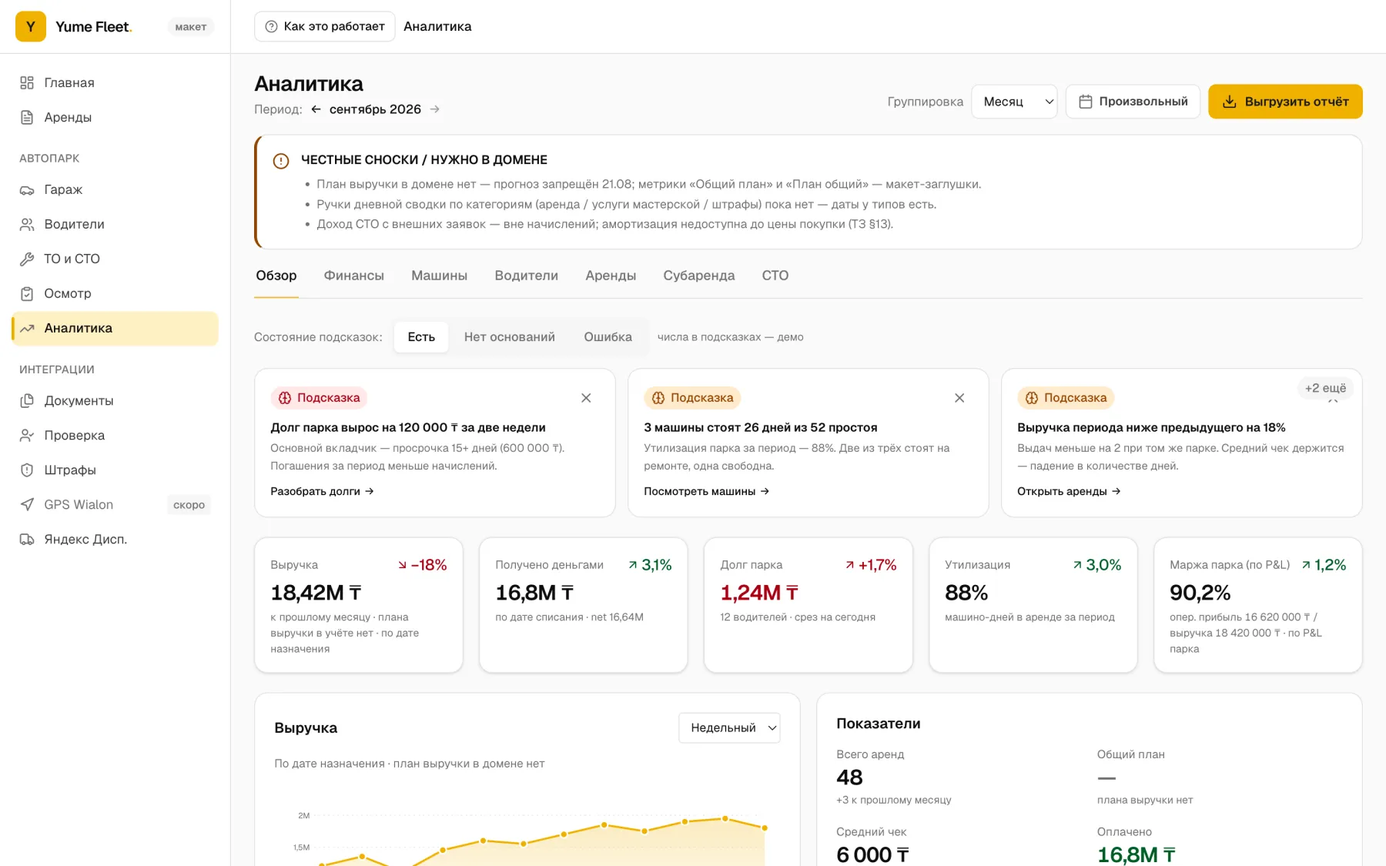
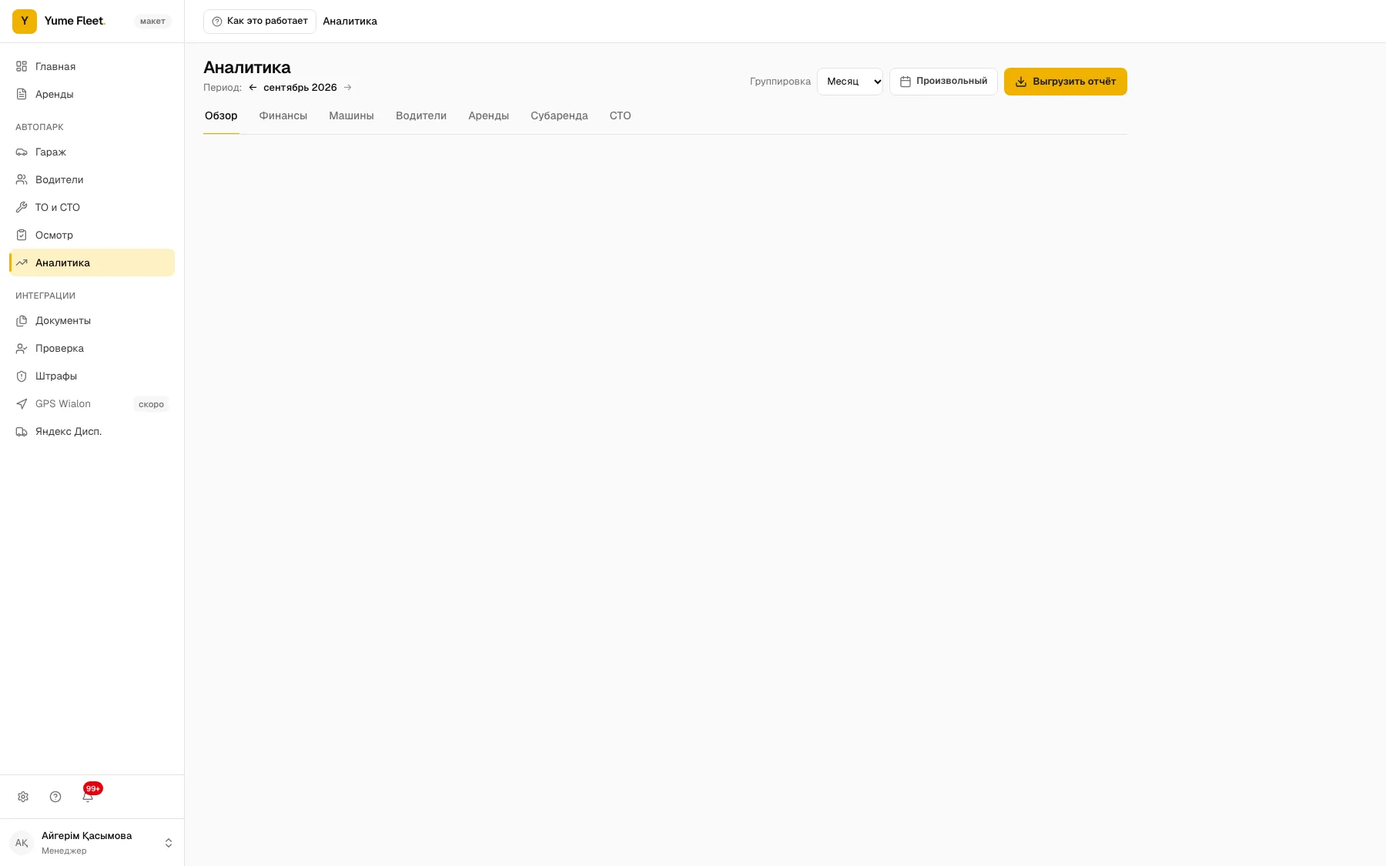
Правки после ревью: новый заголовок, метрики, шаги, ИИ-ассистент в интеграциях, скриншоты оплаты/подписания/ТО/аналитики, подвал

diff --git a/index.html b/index.html
@@ -4,11 +4,11 @@
 <meta charset="utf-8">
 <meta name="viewport" content="width=device-width, initial-scale=1">
 <title>Yume Fleet — CRM для таксопарков и аренды авто</title>
-<meta name="description" content="Yume Fleet автоматизирует аренду авто: оплаты через Kaspi, штрафы ПДД, онлайн-договоры и водители в одной системе. Для таксопарков от 10 машин.">
+<meta name="description" content="Yume Fleet автоматизирует аренду авто: оплаты через Kaspi, штрафы ПДД, онлайн-договоры и учет парка в одной системе. Для таксопарков от 10 машин.">
 <link rel="canonical" href="https://yumefleet.com/">
 <meta property="og:type" content="website">
 <meta property="og:title" content="Yume Fleet — CRM для таксопарков и аренды авто">
-<meta property="og:description" content="Оплаты, штрафы ПДД, онлайн-договоры и водители в одной системе. Для таксопарков от 10 машин.">
+<meta property="og:description" content="Оплаты, штрафы ПДД, онлайн-договоры и учет парка в одной системе. Для таксопарков от 10 машин.">
 <meta property="og:url" content="https://yumefleet.com/">
 <meta property="og:image" content="https://yumefleet.com/assets/img/og.png">
 <link rel="icon" href="assets/logo/favicon.svg" type="image/svg+xml">
@@ -70,16 +70,16 @@
   <div class="wrap">
     <div class="hero__inner">
       <div class="hero__pill"><b><svg width="14" height="6"><use href="#mark"/></svg> ТАКСОПАРКИ</b> CRM для аренды авто в Казахстане</div>
-      <h1>Конец таблицам. <span class="hl">Начало контролю.</span></h1>
-      <p class="lead">Yume Fleet автоматизирует аренду авто: оплаты через Kaspi, штрафы ПДД, онлайн-договоры и водители в одной системе. Для таксопарков от 10 машин.</p>
+      <h1>Единая платформа для управления <span class="hl">таксопарком.</span></h1>
+      <p class="lead">Yume Fleet автоматизирует аренду авто: оплаты через Kaspi, штрафы ПДД, онлайн-договоры и учет парка в одной системе. Для таксопарков от 10 машин.</p>
       <div class="hero__ctas">
         <a class="btn btn--lg btn--yellow" href="#demo">Записаться на демо <svg><use href="#i-arrow"/></svg></a>
         <a class="btn btn--lg btn--ghost" href="#features"><svg><use href="#i-play"/></svg> Что умеет система</a>
       </div>
       <div class="hero__trust">
-        <span><svg><use href="#i-check"/></svg> Без сложного внедрения</span>
-        <span><svg><use href="#i-check"/></svg> Старт за 1 день</span>
-        <span><svg><use href="#i-check"/></svg> Данные хранятся в Казахстане</span>
+        <span><svg><use href="#i-check"/></svg> Посуточная аренда</span>
+        <span><svg><use href="#i-check"/></svg> Аренда под выкуп</span>
+        <span><svg><use href="#i-check"/></svg> Мобильная версия</span>
       </div>
     </div>
     <div class="hero__stage">
@@ -97,10 +97,10 @@
 <!-- ============ METRICS ============ -->
 <div class="metrics">
   <div class="wrap" data-stagger>
-    <div class="metric"><b data-count="1">1</b><span>день до старта работы на платформе</span></div>
+    <div class="metric"><b>Контроль парка</b><span>учёт аренд, задолженностей водителей, состояние транспорта в одном месте</span></div>
     <div class="metric"><b>Kaspi Pay</b><span>оплаты клиентов зачисляются автоматически</span></div>
-    <div class="metric"><b data-count="3">3</b><span>способа подписания договора: eGov, SMS и вручную</span></div>
-    <div class="metric"><b data-count="50" data-suffix="%">50%</b><span>скидка на штраф ПДД: система показывает срок, чтобы успеть оплатить</span></div>
+    <div class="metric"><b>Договоры</b><span>подписываются онлайн через eGov и SMS за 1 минуту</span></div>
+    <div class="metric"><b>Штрафы ПДД</b><span>система автоматически подтягивает штрафы из ЕРАП</span></div>
   </div>
 </div>
 
@@ -168,10 +168,10 @@
         <button class="tab"><i class="tab__bar"></i><svg><use href="#i-cal"/></svg><div><h3>Аналитика по бизнесу</h3><p>Доходы, загрузка парка, окупаемость и амортизация по каждой машине. Видно, какие автомобили простаивают и во сколько это обходится.</p></div></button>
       </div>
       <div class="feat__stage" data-reveal="scale">
-        <div class="pane"><div class="pane__shot"><img width="1800" height="1125" src="assets/screens/payments.webp" alt="Экран платежей и автосписаний Yume Fleet" loading="lazy"></div><div class="pane__cap"><span class="dot"></span><b>Оплаты</b>журнал платежей и долгов</div></div>
-        <div class="pane"><div class="pane__shot"><img width="1800" height="1125" src="assets/screens/documents.webp" alt="Подписание документов в Yume Fleet" loading="lazy"></div><div class="pane__cap"><span class="dot"></span><b>Документы</b>подписание через eGov и SMS</div></div>
+        <div class="pane"><div class="pane__shot"><img width="1800" height="1125" src="assets/screens/pay-link.webp" alt="Оплата аренды по ссылке через Kaspi в Yume Fleet" loading="lazy"></div><div class="pane__cap"><span class="dot"></span><b>Оплата по ссылке</b>водитель платит без входа в систему</div></div>
+        <div class="pane"><div class="pane__shot"><img width="1800" height="1125" src="assets/screens/signing.webp" alt="Подписание документов в Yume Fleet" loading="lazy"></div><div class="pane__cap"><span class="dot"></span><b>Документы</b>подписание через eGov и SMS</div></div>
         <div class="pane"><div class="pane__shot"><img width="1800" height="1125" src="assets/screens/fines.webp" alt="Штрафы ПДД в Yume Fleet" loading="lazy"></div><div class="pane__cap"><span class="dot"></span><b>Штрафы ПДД</b>протокол, водитель, сверка с ЕРАП</div></div>
-        <div class="pane"><div class="pane__shot"><img width="1800" height="1125" src="assets/screens/garage.webp" alt="Техобслуживание в Yume Fleet" loading="lazy"></div><div class="pane__cap"><span class="dot"></span><b>Учёт ТО</b>планирование по пробегу</div></div>
+        <div class="pane"><div class="pane__shot"><img width="1800" height="1125" src="assets/screens/maintenance.webp" alt="План ТО в Yume Fleet" loading="lazy"></div><div class="pane__cap"><span class="dot"></span><b>Учёт ТО</b>план по пробегу и сроку</div></div>
         <div class="pane"><div class="pane__shot"><img width="1800" height="1125" src="assets/screens/drivers.webp" alt="Список водителей Yume Fleet с долгами и просрочками" loading="lazy"></div><div class="pane__cap"><span class="dot"></span><b>Водители</b>долги, просрочки, статус машины</div></div>
         <div class="pane"><div class="pane__shot"><img width="1800" height="1125" src="assets/screens/analytics.webp" alt="Аналитика автопарка Yume Fleet" loading="lazy"></div><div class="pane__cap"><span class="dot"></span><b>Аналитика</b>загрузка и окупаемость парка</div></div>
       </div>
@@ -213,9 +213,9 @@
     </div>
     <div class="flow">
       <div class="flow__line"><i></i></div>
-      <div class="step" data-reveal><div class="step__n"><svg><use href="#i-upload"/></svg></div><small>ШАГ 01</small><h3>Регистрация и парк</h3><p>Создайте аккаунт и заведите автомобили: госномер, техпаспорт, марка, модель.</p></div>
-      <div class="step" data-reveal style="--d:.1s"><div class="step__n"><svg><use href="#i-user"/></svg></div><small>ШАГ 02</small><h3>Водители</h3><p>Добавьте базу водителей с ИИН и телефоном. Текущие долги вносятся как стартовый баланс.</p></div>
-      <div class="step" data-reveal style="--d:.2s"><div class="step__n"><svg><use href="#i-doc"/></svg></div><small>ШАГ 03</small><h3>Договор и Kaspi Pay</h3><p>Подключите шаблон договора и кабинет Kaspi. С этого момента оплаты зачисляются автоматически.</p></div>
+      <div class="step" data-reveal><div class="step__n"><svg><use href="#i-upload"/></svg></div><small>ШАГ 01</small><h3>Регистрация и парк</h3><p>Создайте аккаунт и заведите автомобили.</p></div>
+      <div class="step" data-reveal style="--d:.1s"><div class="step__n"><svg><use href="#i-user"/></svg></div><small>ШАГ 02</small><h3>Водители</h3><p>Добавьте базу водителей.</p></div>
+      <div class="step" data-reveal style="--d:.2s"><div class="step__n"><svg><use href="#i-doc"/></svg></div><small>ШАГ 03</small><h3>Договор и Kaspi Pay</h3><p>Подключите шаблон договора и Kaspi Pay. С этого момента оплаты зачисляются автоматически.</p></div>
       <div class="step" data-reveal style="--d:.3s"><div class="step__n"><svg><use href="#i-check"/></svg></div><small>ШАГ 04</small><h3>Команда</h3><p>Пригласите сотрудников по ссылке и раздайте роли. Команда работает в едином окне с первого дня.</p></div>
     </div>
   </div>
@@ -227,7 +227,7 @@
     <div data-reveal="left">
       <p class="eyebrow">Приложение водителя</p>
       <h2>Водитель видит свою аренду и платит с телефона</h2>
-      <p class="lead" style="margin-top:18px">Ссылка на оплату открывается без пароля: аренда, машина, долг за сегодня и кнопка «Оплатить через Kaspi». Меньше звонков менеджеру и меньше споров об оплате.</p>
+      <p class="lead" style="margin-top:18px">Меньше звонков менеджеру и меньше споров об оплате.</p>
       <ul class="drv__list">
         <li><svg><use href="#i-check"/></svg>Баланс, начисления по дням и история оплат</li>
         <li><svg><use href="#i-check"/></svg>Штрафы ПДД с протоколом и сроком скидки</li>
@@ -252,8 +252,7 @@
       <a class="int" href="#features"><i><img src="assets/img/int/erap.svg" alt="" width="42" height="42"></i><div><b>Штрафы ПДД и ЕРАП</b><span>протоколы, сверка оплаты по БИН</span></div></a>
       <a class="int" href="#features"><i><img src="assets/img/int/iin.svg" alt="" width="42" height="42"></i><div><b>Реестр должников</b><span>проверка водителя через data.egov.kz</span></div></a>
       <a class="int" href="#features"><i><img src="assets/logo/tile-dark-yellow-mark.svg" alt="" width="42" height="42"></i><div><b>Чёрный список парков</b><span>общая база проблемных водителей</span></div></a>
-      <a class="int int--soon" href="#features"><i><img src="assets/img/int/wialon.png" alt="" width="42" height="42"></i><div><b>Wialon GPS <em>скоро</em></b><span>где машина, пробег для ТО</span></div></a>
-      <a class="int int--soon" href="#features"><i><img src="assets/img/int/yandex.svg" alt="" width="42" height="42"></i><div><b>Яндекс Флит <em>скоро</em></b><span>машины и водители из агрегатора</span></div></a>
+      <a class="int" href="#features"><i><img src="assets/img/int/ai.svg" alt="" width="42" height="42"></i><div><b>ИИ-Ассистент</b><span>помощник для работы с платформой</span></div></a>
       <a class="int" href="#features"><i><img src="assets/img/int/excel.png" alt="" width="42" height="42"></i><div><b>Excel</b><span>импорт парка и водителей, экспорт отчётов</span></div></a>
     </div>
   </div>
@@ -264,7 +263,7 @@
   <div class="wrap">
     <div class="sec-head">
       <div data-reveal><p class="eyebrow">Нам доверяют</p><h2>Нам доверяют самые прогрессивные парки на рынке</h2></div>
-      <p class="lead" data-reveal style="--d:.1s">Транспортные компании работают на платформе Yume с 2024 года. Yume Fleet продолжает эту историю.</p>
+      <p class="lead" data-reveal style="--d:.1s">Транспортные компании работают на платформе Yume с 2025 года. Yume Fleet продолжает эту историю.</p>
     </div>
     <div class="reviews" data-stagger>
       <article class="rev"><q>Те, кто работал с таксистами, знают, сколько проблем с долгами и штрафами. В системе есть встроенная проверка штрафов, мы не узнаём о них постфактум. Общий реестр должников сразу показывает проблемных ребят, а договоры подписываем онлайн без бумажной волокиты.</q><div class="rev__who"><i>Р</i><div><b>Руслан</b><small>Astana Park, таксопарк</small></div></div></article>
@@ -279,7 +278,7 @@
   <div class="wrap faq">
     <div data-reveal="left"><p class="eyebrow">FAQ</p><h2>Получите ответы на часто задаваемые вопросы</h2><p class="lead" style="margin-top:18px">Остальное покажем на демо за 20 минут.</p></div>
     <div class="faq__list" data-reveal="right">
-      <div class="q is-open"><button>Для каких парков подходит Yume Fleet?<i></i></button><div class="q__a"><div><p>Для таксопарков и аренды авто водителям от 10 машин. Верхнего предела нет: подписка считается за каждую машину в системе.</p></div></div></div>
+      <div class="q is-open"><button>Для каких парков подходит Yume Fleet?<i></i></button><div class="q__a"><div><p>Для таксопарков и аренды авто для посуточной аренды и аренды под выкуп. Верхнего предела нет: подписка считается за каждую машину в системе.</p></div></div></div>
       <div class="q"><button>Сколько времени занимает внедрение?<i></i></button><div class="q__a"><div><p>Обычно один рабочий день. Машины и водителей заводим вместе с вами из вашей таблицы, затем подключаем шаблон договора и Kaspi Pay. Парк продолжает работать.</p></div></div></div>
       <div class="q"><button>Как приходит оплата?<i></i></button><div class="q__a"><div><p>Водитель открывает ссылку на оплату без пароля и платит через Kaspi по QR или счёту на телефон. Сумма зачисляется в его баланс автоматически. Наличные менеджер отмечает в той же аренде.</p></div></div></div>
       <div class="q"><button>Когда появляются штрафы ПДД?<i></i></button><div class="q__a"><div><p>Автомобили парка подключаются к базе штрафов по госномеру и техпаспорту. Новые штрафы появляются с протоколом и привязываются к аренде и водителю по моменту нарушения. Оплату можно сверить с ЕРАП по БИН компании.</p></div></div></div>
@@ -327,8 +326,8 @@
         <a href="mailto:sales@yume.cloud">sales@yume.cloud</a>
       </div>
       <div><h4>Продукт</h4><ul><li><a href="#features">Возможности</a></li><li><a href="#debt">Оплаты и долги</a></li><li><a href="#driver">Приложение водителя</a></li><li><a href="#integrations">Интеграции</a></li><li><a href="https://app.yumefleet.kz/" rel="noopener">Войти в систему</a></li></ul></div>
-      <div><h4>Компания</h4><ul><li><a href="#reviews">Клиенты</a></li><li><a href="contacts/">Контакты</a></li><li><a href="https://www.linkedin.com/company/yume-cloud/" rel="noopener">LinkedIn</a></li><li><a href="https://www.instagram.com/yumecloudx/" rel="noopener">Instagram</a></li><li><a href="https://t.me/yumefleet" rel="noopener">Telegram</a></li></ul></div>
-      <div><h4>Документы</h4><ul><li><a href="https://yume.cloud/legal/privacy/">Политика конфиденциальности</a></li><li><a href="https://yume.cloud/legal/">Оферта и соглашения</a></li><li><a href="https://yume.cloud/delete-account/">Удаление аккаунта</a></li></ul></div>
+      <div><h4>Компания</h4><ul><li><a href="contacts/">Контакты</a></li><li><a href="https://www.instagram.com/yumecloudx/" rel="noopener">Instagram</a></li><li><a href="https://t.me/yumefleet" rel="noopener">Telegram</a></li></ul></div>
+      <div><h4>Документы</h4><ul><li><a href="https://yume.cloud/privacy" rel="noopener">Политика конфиденциальности</a></li><li><a href="https://drive.google.com/file/d/1HC2aDhfN5nDlu2q_M73Km5yFUF7t05C7/view" rel="noopener">Публичная оферта</a></li><li><a href="https://drive.google.com/file/d/1ELSMnaksX3ROz7dSYNvOraV9-jUWjV78/view" rel="noopener">Пользовательское соглашение</a></li><li><a href="https://drive.google.com/file/d/13ipJMcnRsii1qyfn9vxxOvuGCjWjxFDX/view" rel="noopener">Рекуррентные платежи</a></li><li><a href="https://drive.google.com/file/d/1Ui87iIFScByKXF-4_j_0rTv3RfT9kr-E/view" rel="noopener">Отмена и возврат платежей</a></li><li><a href="https://drive.google.com/file/d/1WLziN6TzG7g-xHzFDxROyK8uxSaAM_3h/view" rel="noopener">Процедура оплаты</a></li><li><a href="https://yume.cloud/delete-account" rel="noopener">Удаление аккаунта</a></li></ul></div>
     </div>
     <div class="footer__bot">
       <div class="legal"><span>© ТОО «Yume.Cloud», 2026</span></div>

diff --git a/contacts/index.html b/contacts/index.html
@@ -119,8 +119,8 @@
         <a href="mailto:sales@yume.cloud">sales@yume.cloud</a>
       </div>
       <div><h4>Продукт</h4><ul><li><a href="../#features">Возможности</a></li><li><a href="../#debt">Оплаты и долги</a></li><li><a href="../#driver">Приложение водителя</a></li><li><a href="../#integrations">Интеграции</a></li><li><a href="https://app.yumefleet.kz/" rel="noopener">Войти в систему</a></li></ul></div>
-      <div><h4>Компания</h4><ul><li><a href="../#reviews">Клиенты</a></li><li><a href="./">Контакты</a></li><li><a href="https://www.linkedin.com/company/yume-cloud/" rel="noopener">LinkedIn</a></li><li><a href="https://www.instagram.com/yumecloudx/" rel="noopener">Instagram</a></li><li><a href="https://t.me/yumefleet" rel="noopener">Telegram</a></li></ul></div>
-      <div><h4>Документы</h4><ul><li><a href="https://yume.cloud/legal/privacy/">Политика конфиденциальности</a></li><li><a href="https://yume.cloud/legal/">Оферта и соглашения</a></li><li><a href="https://yume.cloud/delete-account/">Удаление аккаунта</a></li></ul></div>
+      <div><h4>Компания</h4><ul><li><a href="./">Контакты</a></li><li><a href="https://www.instagram.com/yumecloudx/" rel="noopener">Instagram</a></li><li><a href="https://t.me/yumefleet" rel="noopener">Telegram</a></li></ul></div>
+      <div><h4>Документы</h4><ul><li><a href="https://yume.cloud/privacy" rel="noopener">Политика конфиденциальности</a></li><li><a href="https://drive.google.com/file/d/1HC2aDhfN5nDlu2q_M73Km5yFUF7t05C7/view" rel="noopener">Публичная оферта</a></li><li><a href="https://drive.google.com/file/d/1ELSMnaksX3ROz7dSYNvOraV9-jUWjV78/view" rel="noopener">Пользовательское соглашение</a></li><li><a href="https://drive.google.com/file/d/13ipJMcnRsii1qyfn9vxxOvuGCjWjxFDX/view" rel="noopener">Рекуррентные платежи</a></li><li><a href="https://drive.google.com/file/d/1Ui87iIFScByKXF-4_j_0rTv3RfT9kr-E/view" rel="noopener">Отмена и возврат платежей</a></li><li><a href="https://drive.google.com/file/d/1WLziN6TzG7g-xHzFDxROyK8uxSaAM_3h/view" rel="noopener">Процедура оплаты</a></li><li><a href="https://yume.cloud/delete-account" rel="noopener">Удаление аккаунта</a></li></ul></div>
     </div>
     <div class="footer__bot">
       <div class="legal"><span>© ТОО «Yume.Cloud», 2026</span></div>

diff --git a/css/styles.css b/css/styles.css
@@ -102,7 +102,7 @@ p{margin:0}
 .hero__inner{max-width:860px;margin:0 auto;text-align:center}
 .hero__pill{display:inline-flex;align-items:center;gap:10px;padding:6px 14px 6px 6px;border-radius:999px;background:#fff;border:1px solid var(--line);font-size:13px;color:var(--muted);margin-bottom:26px}
 .hero__pill b{display:inline-flex;align-items:center;gap:6px;padding:4px 9px;border-radius:999px;background:var(--yellow);color:var(--ink);font-weight:700;font-size:11px;letter-spacing:.06em}
-.hero h1{opacity:0;animation:fade .9s var(--ease) .1s forwards}
+.hero h1{opacity:0;animation:fade .9s var(--ease) .1s forwards;font-size:clamp(34px,4.2vw,58px);max-width:24ch;margin-inline:auto}
 .hero .lead{margin:26px auto 0;max-width:62ch;opacity:0;animation:fade .8s var(--ease) .45s forwards}
 .hero__ctas{display:flex;gap:12px;justify-content:center;margin-top:36px;flex-wrap:wrap;opacity:0;animation:fade .8s var(--ease) .65s forwards}
 .hero__trust{display:flex;gap:22px;justify-content:center;margin-top:22px;font-size:14px;color:var(--muted);flex-wrap:wrap;opacity:0;animation:fade .8s var(--ease) .85s forwards}
@@ -132,7 +132,7 @@ p{margin:0}
 .metric{padding:28px 28px 28px 0;border-right:1px solid var(--line)}
 .metric+.metric{padding-left:28px}
 .metric:last-child{border-right:0}
-.metric b{display:block;font-size:clamp(28px,3vw,40px);font-weight:800;letter-spacing:-.04em;line-height:1;margin-bottom:8px;font-variant-numeric:tabular-nums}
+.metric b{display:block;font-size:clamp(22px,2.1vw,28px);font-weight:800;letter-spacing:-.04em;line-height:1;margin-bottom:8px;font-variant-numeric:tabular-nums}
 .metric span{color:var(--muted);font-size:14px}
 @media (max-width:900px){.metrics .wrap{grid-template-columns:1fr 1fr}.metric:nth-child(2){border-right:0}.metric:nth-child(n+3){border-top:1px solid var(--line)}.metric:nth-child(3){padding-left:0}}
 @media (max-width:520px){.metrics .wrap{grid-template-columns:1fr}.metric{border-right:0;padding:20px 0;border-top:1px solid var(--line)}.metric:first-child{border-top:0}.metric+.metric{padding-left:0}}
